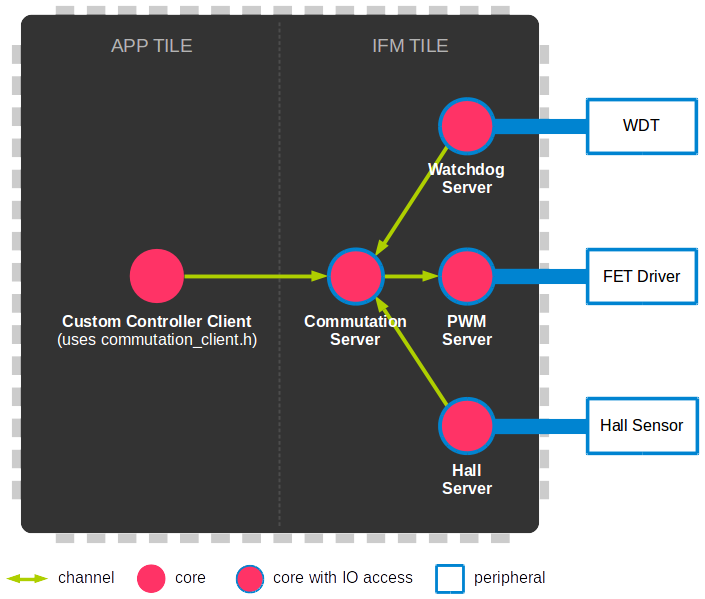
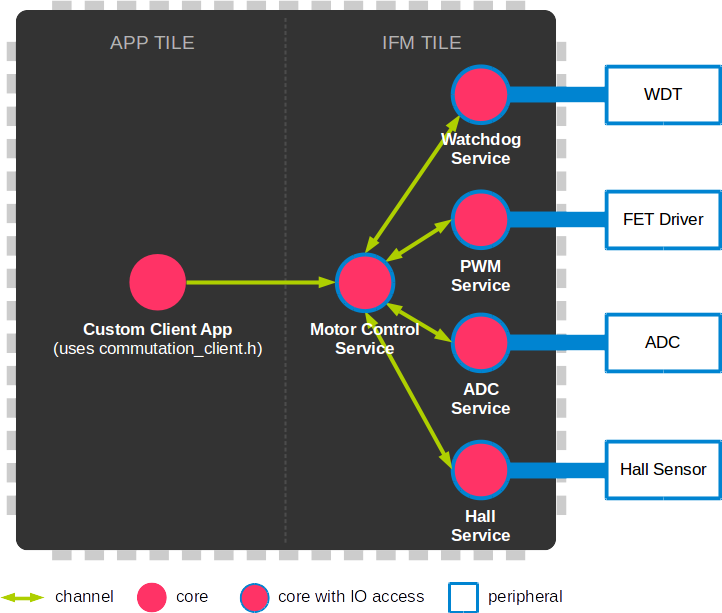
module:motorcontrol: Documentation: Update core/task diagram on in module_motorcontrol

diff --git a/module_motorcontrol/doc/index.rst b/module_motorcontrol/doc/index.rst
@@ -26,6 +26,8 @@ your SOMANET IFM device.
 .. figure:: images/core-diagram-commutation.png
    :width: 60%
 
+   Diagrams shows core/task diagram of a client app using motorcontrol_service
+
 .. _commutation_programming_label:
 
 How to use
